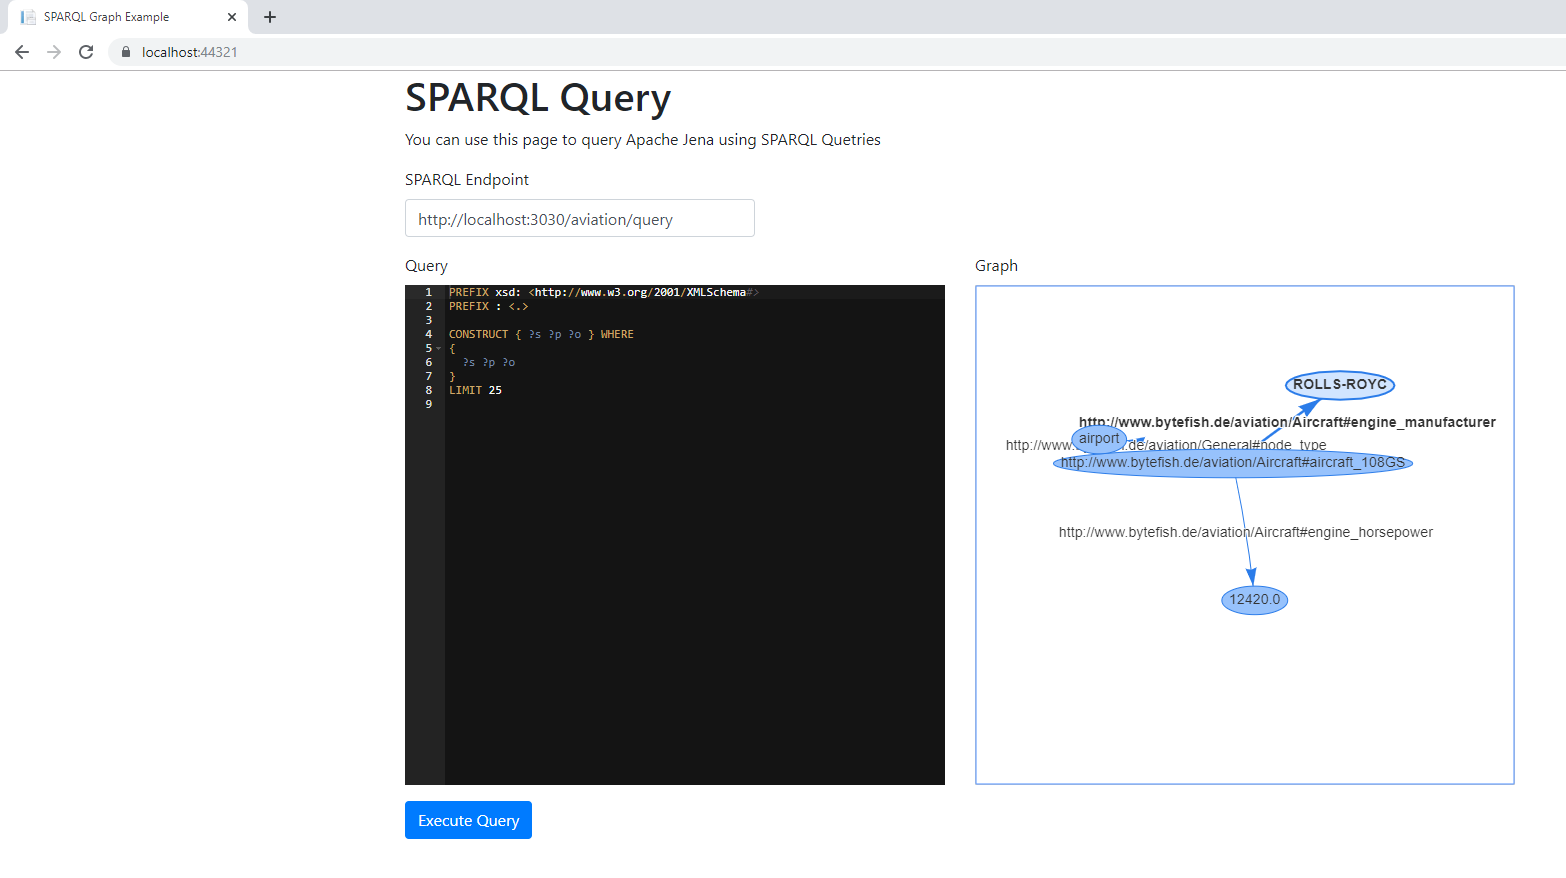
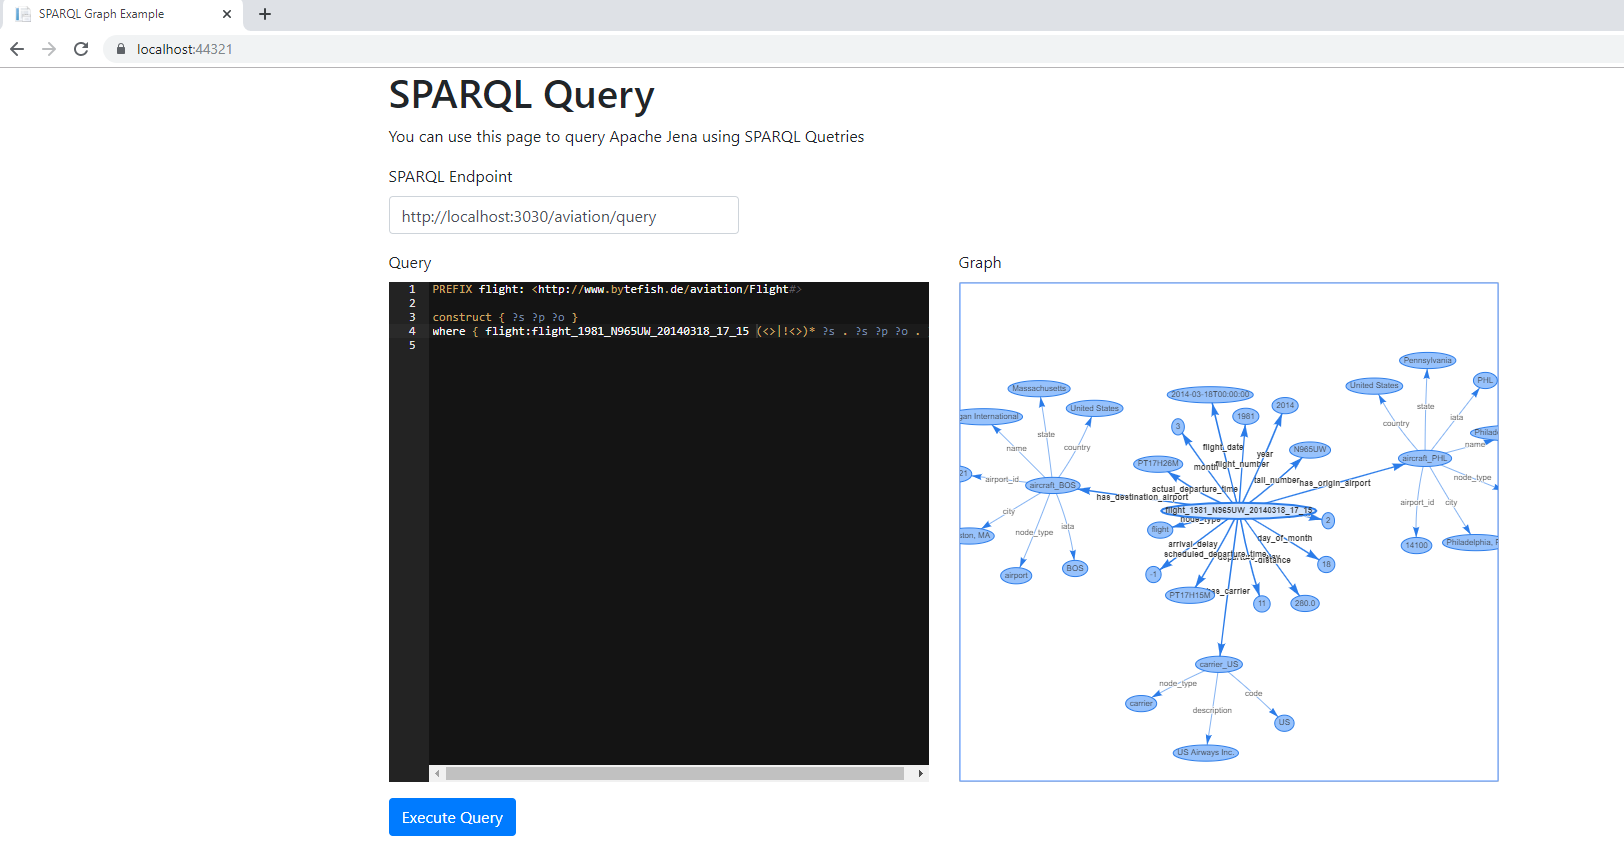
Update Screenshot

diff --git a/ApacheJenaSample/ApacheJenaSample.Web/Utils/RdfUtils.cs b/ApacheJenaSample/ApacheJenaSample.Web/Utils/RdfUtils.cs
@@ -14,7 +14,14 @@ namespace ApacheJenaSample.Web.Utils
 
             if (uriNode != null)
             {
-                return uriNode.Uri.OriginalString;
+                string fragment = uriNode.Uri.Fragment?.Trim('#');
+
+                if(string.IsNullOrWhiteSpace(fragment))
+                {
+                    return uriNode.Uri.Fragment;
+                }
+
+                return fragment;
             }
 
             var blankNode = node as IBlankNode;
